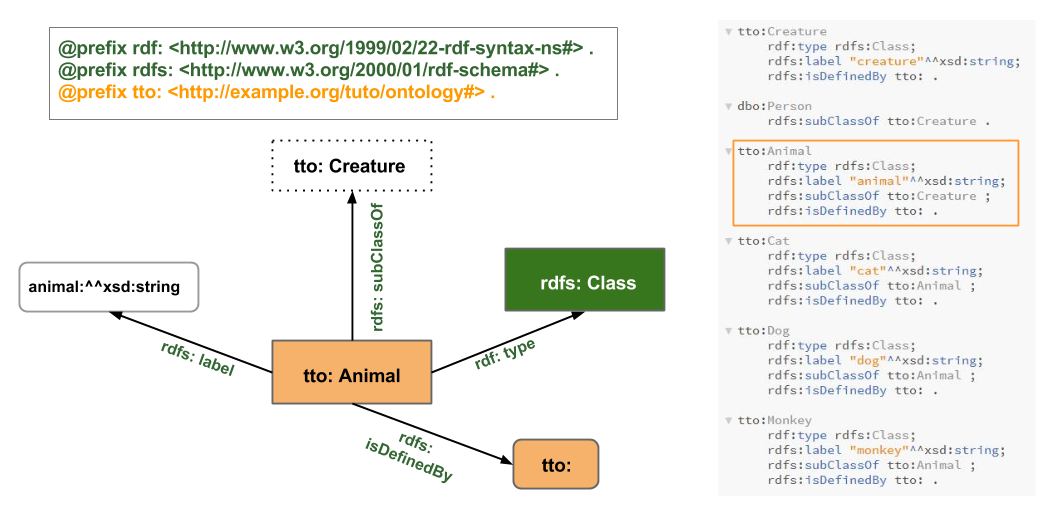
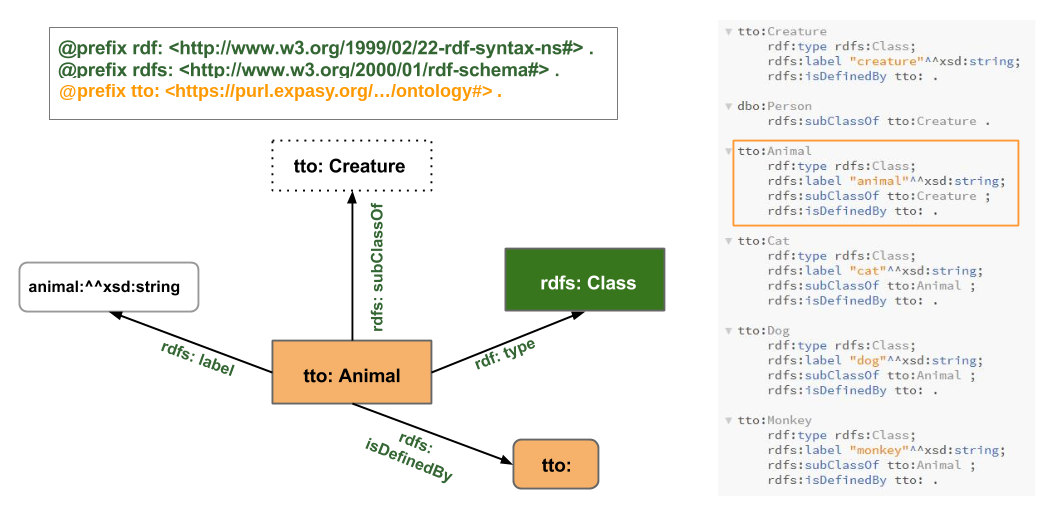
Update the 4 diagram images to the new purl.expasy.org namespace
Edited the baked-in namespace text directly in the PNGs (previously a
known limitation of this branch) rather than leaving them stale:
- model.png: the tto:/ttr: namespace boxes
- ontology-classes.png, ontology-class-details.png,
  ontology-properties.png: the "@prefix tto: <...>" line

The new URIs are longer than the old example.org placeholders, so the
displayed form elides the path with an ellipsis
(https://purl.expasy.org/…/ontology#) to fit the same layout without
overlapping neighboring content -- the full, real URI is what's
actually used in ontology.ttl/resource.ttl/shapes.ttl and given in
prose elsewhere on the page. Font, weight, size, and box/link styling
matched by eye against the originals (Liberation Sans, the metric
match for the apparent Arial/Helvetica original).

Changed region(s): [[0.031, 0.155, 0.4657, 0.2171]]

diff --git a/default/README.md b/default/README.md
@@ -2,7 +2,7 @@ This directory holds the classic introductory SPARQL tutorial originally from [S
 
 Read it on the [published site](https://sib-swiss.github.io/sparql-training/default/tutorial.html), or as plain Markdown in [tutorial.md](./tutorial.md).
 
-[ontology.ttl](./ontology.ttl) and [resource.ttl](./resource.ttl) are the same dataset shown in `tutorial.md`'s embedded, editable fixture, split back out into the two plain files the original [SPARQL playground](https://github.com/calipho-sib/sparql-playground) source had. They're dereferenceable at `https://purl.expasy.org/sparql-examples/training/ontology` and `.../resource` (content-negotiated: `Accept: text/turtle` gets you these files directly; anything else redirects to the tutorial page). **Known limitation:** the diagram images on the tutorial page still show the dataset's old placeholder namespace (`example.org/tuto/...`) baked into the picture as text, from before this namespace migration &mdash; regenerating them is future work.
+[ontology.ttl](./ontology.ttl) and [resource.ttl](./resource.ttl) are the same dataset shown in `tutorial.md`'s embedded, editable fixture, split back out into the two plain files the original [SPARQL playground](https://github.com/calipho-sib/sparql-playground) source had. They're dereferenceable at `https://purl.expasy.org/sparql-examples/training/ontology` and `.../resource` (content-negotiated: `Accept: text/turtle` gets you these files directly; anything else redirects to the tutorial page).
 
 [shapes.ttl](./shapes.ttl) is a [SHACL](https://www.w3.org/TR/shacl/) shape describing that same dataset's class hierarchy and properties, validated clean against the real data with Apache Jena's `shacl` CLI:
 
